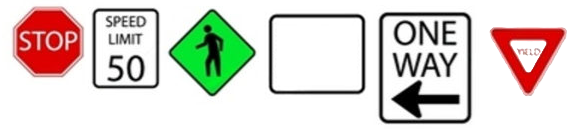
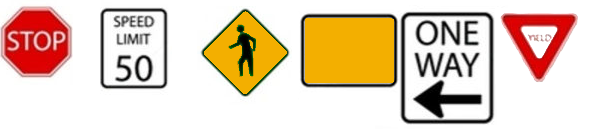
Modified how templates images were read to increase # of edges found.  Made some changes to street signs to more closely match the signs we are looking for.

diff --git a/Code/Assign3.m b/Code/Assign3.m
@@ -3,48 +3,29 @@ close all
 clc
 
 bin_threshold = 0.5;
-match_scales = [2.0, 2.5, 3.0];
+match_scales = [2.0, 2.5, 3.0, 3.5];
 testFolder = '.\tests';
 images = dir(fullfile(testFolder, '*.jpg'));
 min_size = 40;
+template_width = 100;
 
 % First, process all the signs in the sign template image
 img_template = imread('templates.png');
 img_template_gray = rgb2gray(img_template);
 figure, imshow(img_template_gray), title('BW Original Templates');
-bw_template = imbinarize(img_template_gray, bin_threshold);
-bw_comp = imcomplement(bw_template); % Background should be black and foreground should be white
-[L, num] = bwlabel(bw_comp, 8);
 
-[h, w] = size(bw_template);
-temp_count = 0;
-% Limit to 100 components in case bwlabel() creates too many components.
-for i=1:min(num, 100)
-    [r,c] = find(L == i);
-    min_r = min(r);
-    max_r = max(r);
-    min_c = min(c);
-    max_c = max(c);
-    r = r - min_r + 1;
-    c = c - min_c + 1;
-    height = max_r - min_r + 1;
-    width = max_c - min_c + 1;
-    % Only keep labeled components that are of the minimum size
-    if height>=min_size && width>=min_size
-        % Make the template image slightly largely than the actual sign in
-        % order to catch the outer edges.
-        border_pixels = 2;
-        new_img = zeros(height+2*border_pixels, width+2*border_pixels);
-        for j=1:length(r)
-            new_img(r(j)+border_pixels, c(j)+border_pixels) = border_pixels;
-        end
-        temp_count = temp_count + 1;
-        temp_edge = edge(new_img, "Canny", 0.3);
-        templates{temp_count} = temp_edge;
-        %figure, imshow(temp_edge), title("template edges "+string(temp_count));
-        %filename="../template_"+string(temp_count)+".png";
-        %imwrite(temp_edge, filename);
-    end
+[h, w] = size(img_template_gray);
+num_templates = int16(w / template_width);
+for i=1:num_templates
+    % Make the template image slightly largely than the actual sign in
+    % order to catch the outer edges.
+    border_pixels = 0;
+    new_img = zeros(h+2*border_pixels, template_width+2*border_pixels);
+    new_img(border_pixels+1:h+border_pixels, border_pixels+1:template_width+border_pixels) = img_template_gray(1:h, template_width*(i-1)+1:template_width*i);
+    temp_edge = edge(new_img, "Canny", 0.1);
+    temp_edge = cropImage(temp_edge);
+    templates{i} = temp_edge;
+    %figure; imshow(temp_edge); title('Template ' + string(i));
 end
 
 for i=1:length(images)
@@ -57,7 +38,17 @@ for i=1:length(images)
     %% Step 1: Compute the Distance Transform
     img_gray = rgb2gray(img);
 
-    img_edge = edge(img_gray, "Canny", [.1 .4], 1);%.3);
+    if i == 1
+        img_edge = edge(img_gray, "Canny", [.1 .4], 1);
+    elseif i == 2
+        img_edge = edge(img_gray, "Canny", [.1 .3], 1);
+    elseif i == 3
+        img_edge = edge(img_gray, "Canny", [.1 .5], 1.5);
+    elseif i == 4
+        img_edge = edge(img_gray, "Canny", [.2 .4], 1);
+    elseif i == 5
+        img_edge = edge(img_gray, "Canny", [.1 .5], 1);
+    end
     figure; imshow(img_edge); title('Canny Edge Detection');
 
     % Calculate the chamfer distance array
@@ -74,7 +65,7 @@ for i=1:length(images)
     % 2 = white/blck (speed limit, one way)
     % 3 = green sign (pedestrian crossing)
 
-    templateColorClass = [1 2 3 2 2 1];
+    templateColorClass = [1 2 3 3 2 1];
     
     [img_h, img_w] = size(img_gray);
 

diff --git a/Code/chamferMatch.m b/Code/chamferMatch.m
@@ -24,6 +24,7 @@ function [matches] = chamferMatch(img_dist, templates_img_gray, match_scales)
 
     % Loop through each template
     for i_image = 1:numel(templates_img_gray)
+        fprintf('   Template #%d scale factor ', i_image);
         template = templates_img_gray{i_image};
     
         % Loop through all the scales to try to find a match
@@ -33,6 +34,11 @@ function [matches] = chamferMatch(img_dist, templates_img_gray, match_scales)
 
         % Loop through each scale factor
         for scale=match_scales
+            if scale ~= match_scales(end)
+                fprintf('%f, ', scale);
+            else
+                fprintf('%f\n', scale);
+            end
             % Resize the template based on the scale
             temp_scaled = imresize(template, scale);
             [t_rows, t_cols] = size(temp_scaled);

diff --git a/Code/cropImage.m b/Code/cropImage.m
@@ -1,0 +1,17 @@
+function output_img = cropImage(input_img)
+    %CROPIMAGE Crops out black border form the input image.
+    arguments (Input)
+        input_img (:,:) logical
+    end
+    
+    arguments (Output)
+        output_img (:,:) logical
+    end
+    
+    [rows, cols] = find(input_img);
+    min_row = min(rows);
+    max_row = max(rows);
+    min_col = min(cols);
+    max_col = max(cols);
+    output_img = input_img(min_row:max_row, min_col:max_col, :);
+end
